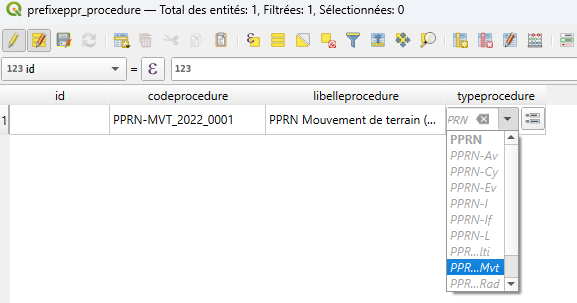
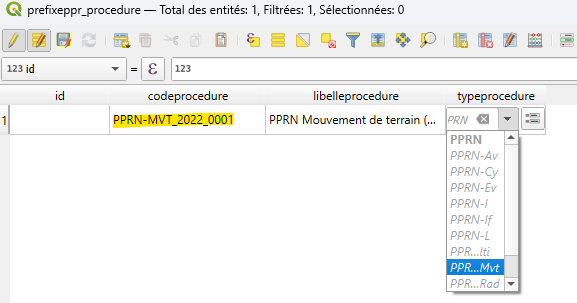
TOC FAQ

Changed region(s): [[0.1872, 0.3564, 0.4055, 0.4455]]

diff --git a/ressources/FAQ.md b/ressources/FAQ.md
@@ -2,6 +2,13 @@
 
 Cette page rassemble quelques indications pratiques relatives au standard et l'utilisation des ressources associées.
 
+* [Utilisation des gabarits GeoPackage](#utilisation-des-gabarits-geopackage)
+  * [Personnalisation des gabarits pour constituer un PPR](#personnalisation-des-gabarits-pour-constituer-un-ppr)
+    * [Méthode 1 : Modification dans le code SQL](#méthode-1--modification-dans-le-code-sql)
+    * [Méthode 2 : En utilisant QGiS](#méthode-2--en-utilisant-qgis)
+  * [Utilisation des gabarits dans QGiS](#utilisation-des-gabarits-dans-qgis)
+* [Erreurs du validateur](#erreurs-du-validateur)
+
 ## Utilisation des gabarits GeoPackage
 
 ### Personnalisation des gabarits pour constituer un PPR
@@ -44,7 +51,7 @@ Si vous avez des difficultés à mettre en oeuvre la méthode précédente, vous
 Ce qui suit a été testé avec QGiS v3.44, il conviendra le cas échéant d'adapter les instructions en fonction de la version utilisée.
 
 1. Téléchargez le gabarit qui correspondant à votre territoire depuis le [dépôt Github](./gabarits/) ;
-2. Renommez le fichier en fonction du code CASPAR de votre PPR ;
+2. Renommez le fichier en fonction du code GASPAR de votre PPR ;
 3. Chargez le dans QGiS (drag n drop par exemple) ; sélectionnez toutes les couches proposées et ajoutez les au projet ;
 
 La difficulté avec QGiS est que la manipulation des couches (renommage, copie, suppression) dans le gestionnaire de couches ne modifie pas le fichier GeoPackage sous-jacent (et inversement). Il faut jongler avec l'outil "Base de données / Gestionnaire BD..." de QGiS pour cela. 
@@ -70,13 +77,13 @@ Je n'ai pas trouvé de méthode plus simple avec QGiS. Si vous en avez n'hésite
    1. Dans le gestionnaire de couche : clic droit et choisissez "Dupliquer la couche"
    ![alt text](./images/dupliquer-couche.png)
 
-   2. Pour pérenniser la couche qui a été créée dans le gestionnaire de couches il vous faut l'enregistre dans le fichier geopackage. Pour cela : clic droit, choisissez "Exporter... > Sauvegarder les Entités sous..."
+   2. Pour pérenniser la couche qui a été créée dans le gestionnaire de couches il vous faut l'enregistrer dans le fichier geopackage. Pour cela : clic droit, choisissez "Exporter... > Sauvegarder les Entités sous..."
    ![alt text](./images/sauvegarder-sous.png)
 
    3. Dans la boite de dialogue qui apparaît, sélectionnez le fichier GeoPackage du gabarit pour y enregistrer la nouvelle couche. A priori il n'y a rien d'autre à modifier dans les options proposées. Cliquez sur OK.
    ![alt text](./images/bdd-enregistrer.png)
 
-   Vous pouvez ensuite retourner dans le gestionnaire de bases de donnés de QGiS pour renommer la table dans le GeoPackage (cf. étapes précédentes)
+   Vous pouvez ensuite retourner dans le gestionnaire de bases de donnés de QGiS pour renommer la table dans le GeoPackage (cf. étapes précédentes).
 
 ### Utilisation des gabarits dans QGiS
 
